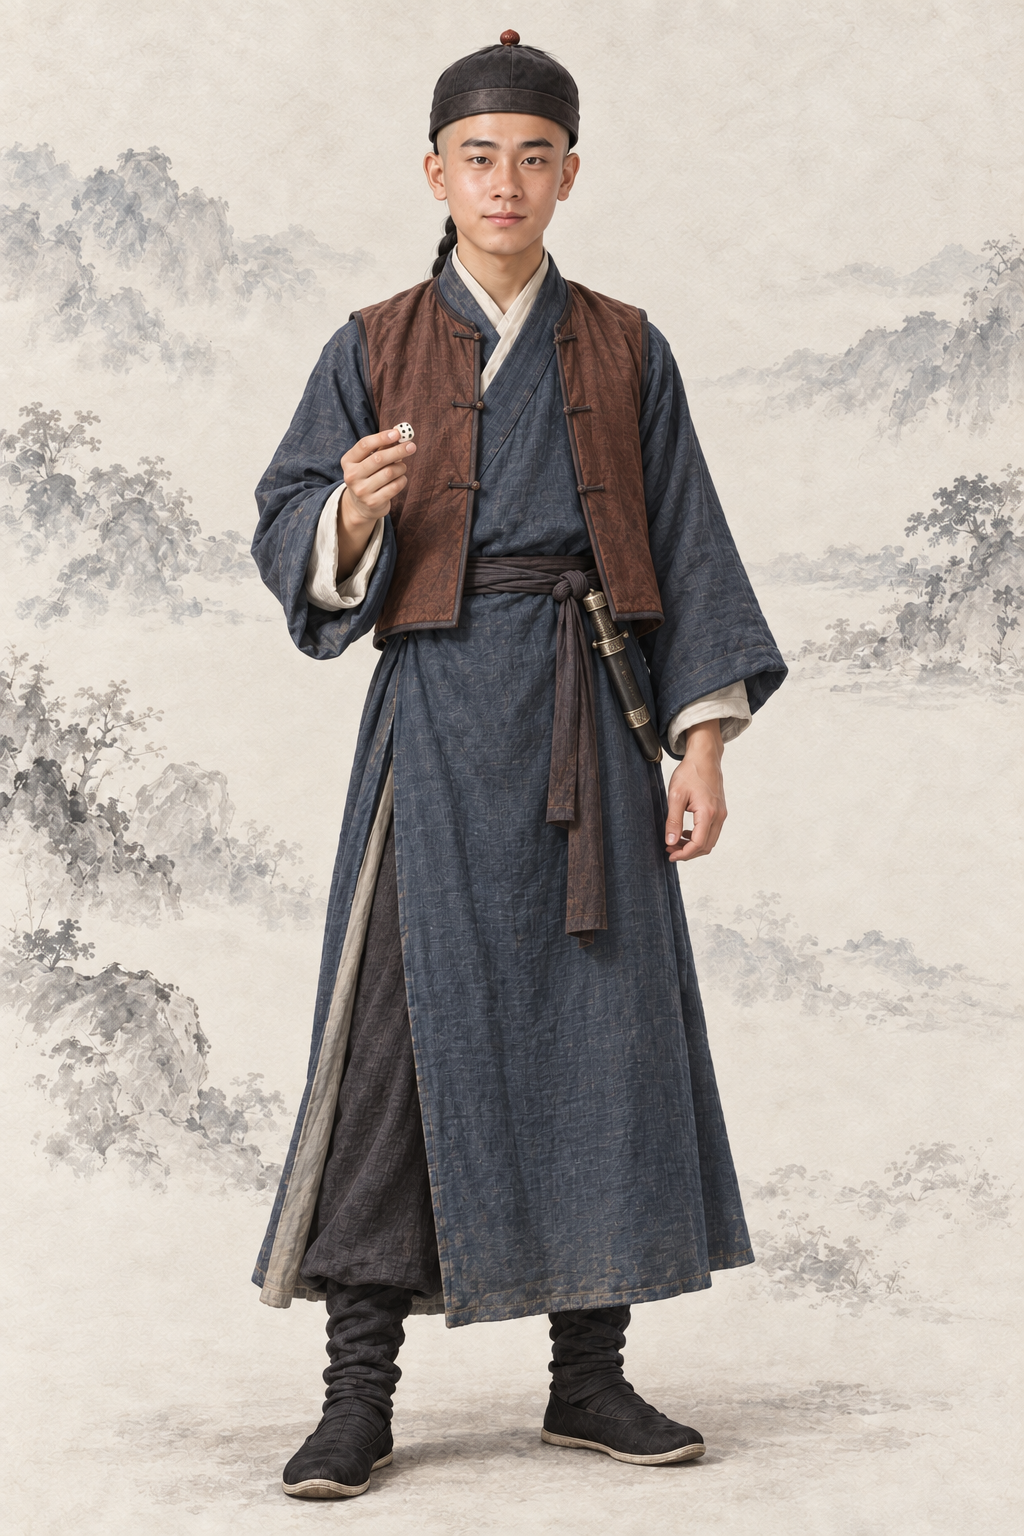
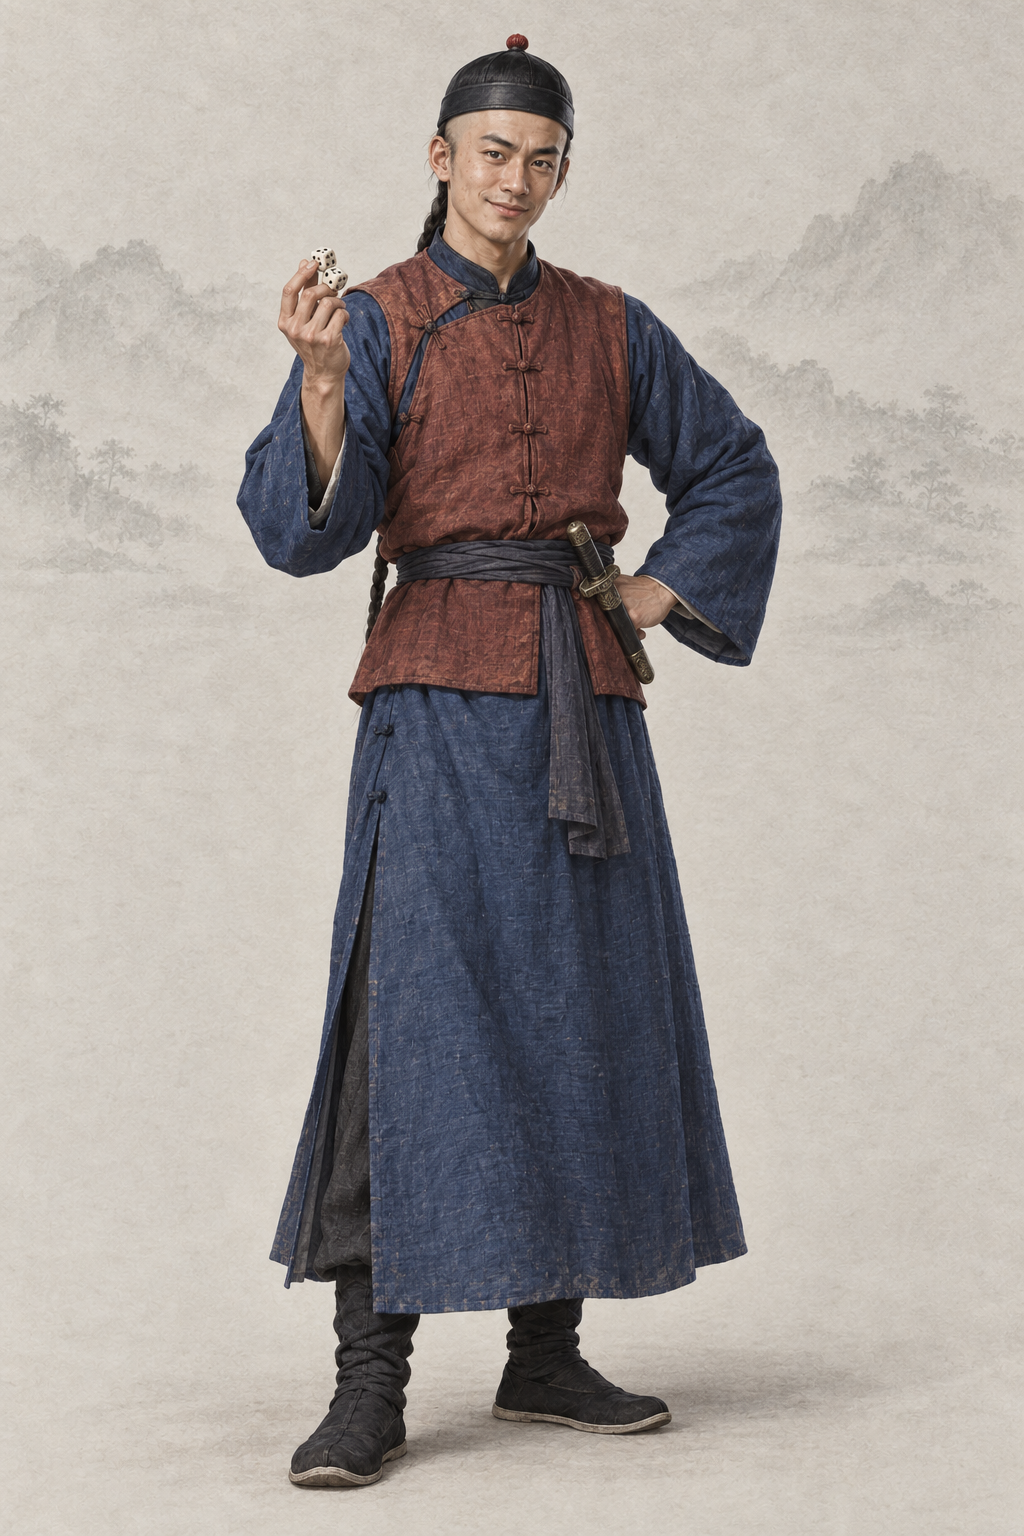
assets(character): por_npc_weixiaobao__ch08_youth_bishou_base 韦小宝（codex）
AR-31：按经典影视造型以文字改写（原创面孔，不写演员名、不传剧照）

diff --git a/assets/default/prompts/characters/ch08-luding/npc_weixiaobao.md b/assets/default/prompts/characters/ch08-luding/npc_weixiaobao.md
@@ -22,11 +22,31 @@ redo_reason: "现图按 13–17 岁少年设计、脸平淡没有韦小宝的油
 reference_upload:
 - assets/default/baseline/character/male/ref_npc_linghuchong__ch05_base01.png
 realism_revision: user_identity_pose_20261001
+codex_prompt_rev: 2026-10-02
 ---
 
 # 韦小宝 · 人物写实修正
 
 ## Gemini 提示词
+
+> 2026-10-02 AR-31 改写（1 号出图员，codex exec · image_gen 出图）：重要人物借鉴经典影视造型，只写成文字——不写演员名、不上传剧照、原创面孔；主角和美人画得好看，去 AI 味，禁止幼态。出图时上传两张同性别基线立绘作画风参考（放在最后）。审核组原稿保留在下一节作历史。
+
+```text
+生成一张 2:3 竖幅全身人物立绘：单人、单一视角、完整全身——头顶、双手、双脚和手中器物的两端都在画面内，四周留出自然空白；人物站姿自然，身体基本朝向正面，头部端正（不歪头、不仰不俯），镜头平视。
+【画风】写实手绘古风人物插画，与本项目写实武侠角色立绘同一画风，像功力深厚的画师用细腻笔触画出的真实人物。手绘插画质感，不是 CG 渲染：不要过度光滑的皮肤、完美对称的五官、塑料高光、过度锐利的发丝；保留自然的笔触和细微不完美。皮肤有真实质感——细小毛孔、细纹、晒痕和自然的左右不对称，不磨皮、不油亮；头发是一缕缕自然的发丝和少量碎发；布料看得出经纬纹理、厚薄和自然垂坠的褶皱，带穿用过的轻微旧化，但完整不破烂；整体设色低饱和、沉稳；柔和的自然光从左上方照来，明暗过渡自然，不打舞台光、轮廓光或美颜柔光。不是照片，不是三维渲染，不是动漫或游戏 CG，也不是油画（没有厚涂笔触和画布纹理）。
+【背景】不透明的暖浅灰色纸底，只在远处有极淡的水墨远山和薄雾，大面积留白；人物与背景明暗分明、轮廓边缘干净完整（后续要自动抠图），水墨和纸纹只在背景里，不侵入人物和衣服；脚下只有很淡的一点接触阴影。
+【人物】韦小宝，《鹿鼎记》男主角，扬州妓院长大的市井小子，假扮小太监「小桂子」混在清宫，已从鳌拜家抄得一柄削铁如泥的匕首和一件刀枪不入的宝衣的时期。
+【年龄与体态】外观约二十岁的成年青年男子（不是少年），中等偏矮的个子，身形精瘦灵活。
+【经典造型】借鉴经典武侠影视里这个角色深入人心的造型，只取发型、装束、配色、标志道具、气质和脸型类型，用原创面孔画出来，不像任何真实演员：九十年代经典港剧里那个嬉皮笑脸的韦小宝——头戴黑缎瓜皮小帽（帽顶一颗红绒结），前额剃光、脑后一条长辫；宝蓝长袍外罩暗红坎肩；一双滴溜溜转的小眼睛，咧嘴一笑满是机灵和坏水，让人又好气又好笑。
+【面容】圆中带方的脸，下巴短圆；眉毛浓黑、眉梢上扬；一双小而亮的眼睛滴溜溜地转，透着机灵、狡黠和市井气；鼻子圆钝；嘴巴略大，嘴角挂着一副嬉皮笑脸的坏笑，好像正要编一句瞎话；肤色健康偏暖。油滑、机灵、讨人喜欢，五官端正，不是丑角。
+【发式】清初男子发式——前额和头顶前半剃光，脑后留一条细长辫子垂在背后；头戴一顶黑缎瓜皮小帽，帽顶缀一颗小红绒结。
+【服饰】清初样式的宝蓝色圆领大襟长袍（右衽，衣襟从领口斜向右腋下用布纽扣扣合），外罩一件暗赭红色坎肩，腰系布带，黑布靴；袍子里贴身穿着一件乌黑柔韧的宝衣，只在领口露出一线。
+【道具与姿态】腰间斜插一柄连鞘短匕首（乌黑短鞘、小巧刀柄）；右手在胸前把玩两颗骰子；左手叉腰；吊儿郎当地站着，一脚稍前。
+【不要】画面里不要任何文字、题款、印章、签名、水印、边框、分格或多视图；不要第二个人；不要幼态（童颜、娃娃脸、婴儿肥、儿童或少年身材、大头小身）；不要塑料感皮肤、磨皮美颜、网红脸（尖下巴大眼高鼻的模板脸）、过度对称、浓妆、偶像式打光、蜡像感；不要照片质感、三维渲染或动漫大眼；不要像任何真实演员或明星；不要歪头、斜镜头；不要多指、缺指（设定的伤残除外）、手与器物粘连或悬空；汉式交领必须右衽（穿着者的左襟压在右襟上），不要左衽（设定为少数民族服制的除外），不要水平镜像；不要现代物品、发光特效、法阵或能量光。不要少年或孩子的脸和身材；不要长剑和剑侠架势；不要丑化成小丑；清初男子一律穿圆领大襟，不要汉式交领长衫，不要明代发髻或网巾。
+【画风基线】随提示词上传的参考图里，最后两张是本项目的立绘画风基线：只参考它们的画风、用色、光线、质感和暖浅灰纸底加淡水墨的背景处理，整体画风必须与它们一致——精细写实的数字手绘插画，不是油画，不要厚涂笔触和画布纹理。参考图只取画风、光线、质感和背景处理，不取长相：不要照搬基线图里人物的长相、年龄、发型、服饰和姿势。
+```
+
+## 审核组 Gemini 提示词（2026-10-02 AR-30 重审稿；AR-31 改写前，历史，不再用于出图）
 
 > 2026-10-02 立绘审核（B 组，见 `tools/agents/reports/REVIEW-portraits-B-ch05-09.md`）：**整体重出**（P1）。现图按 13–17 岁少年设计、脸平淡没有韦小宝的油滑机灵，长袍还是汉式交领；旧图以 1998 年剧集剧照为面部身份参考生成，有复刻真人面容的风险（本轮口径禁止）。改为约二十岁成年、市井坏笑、清初圆领大襟。
 >
